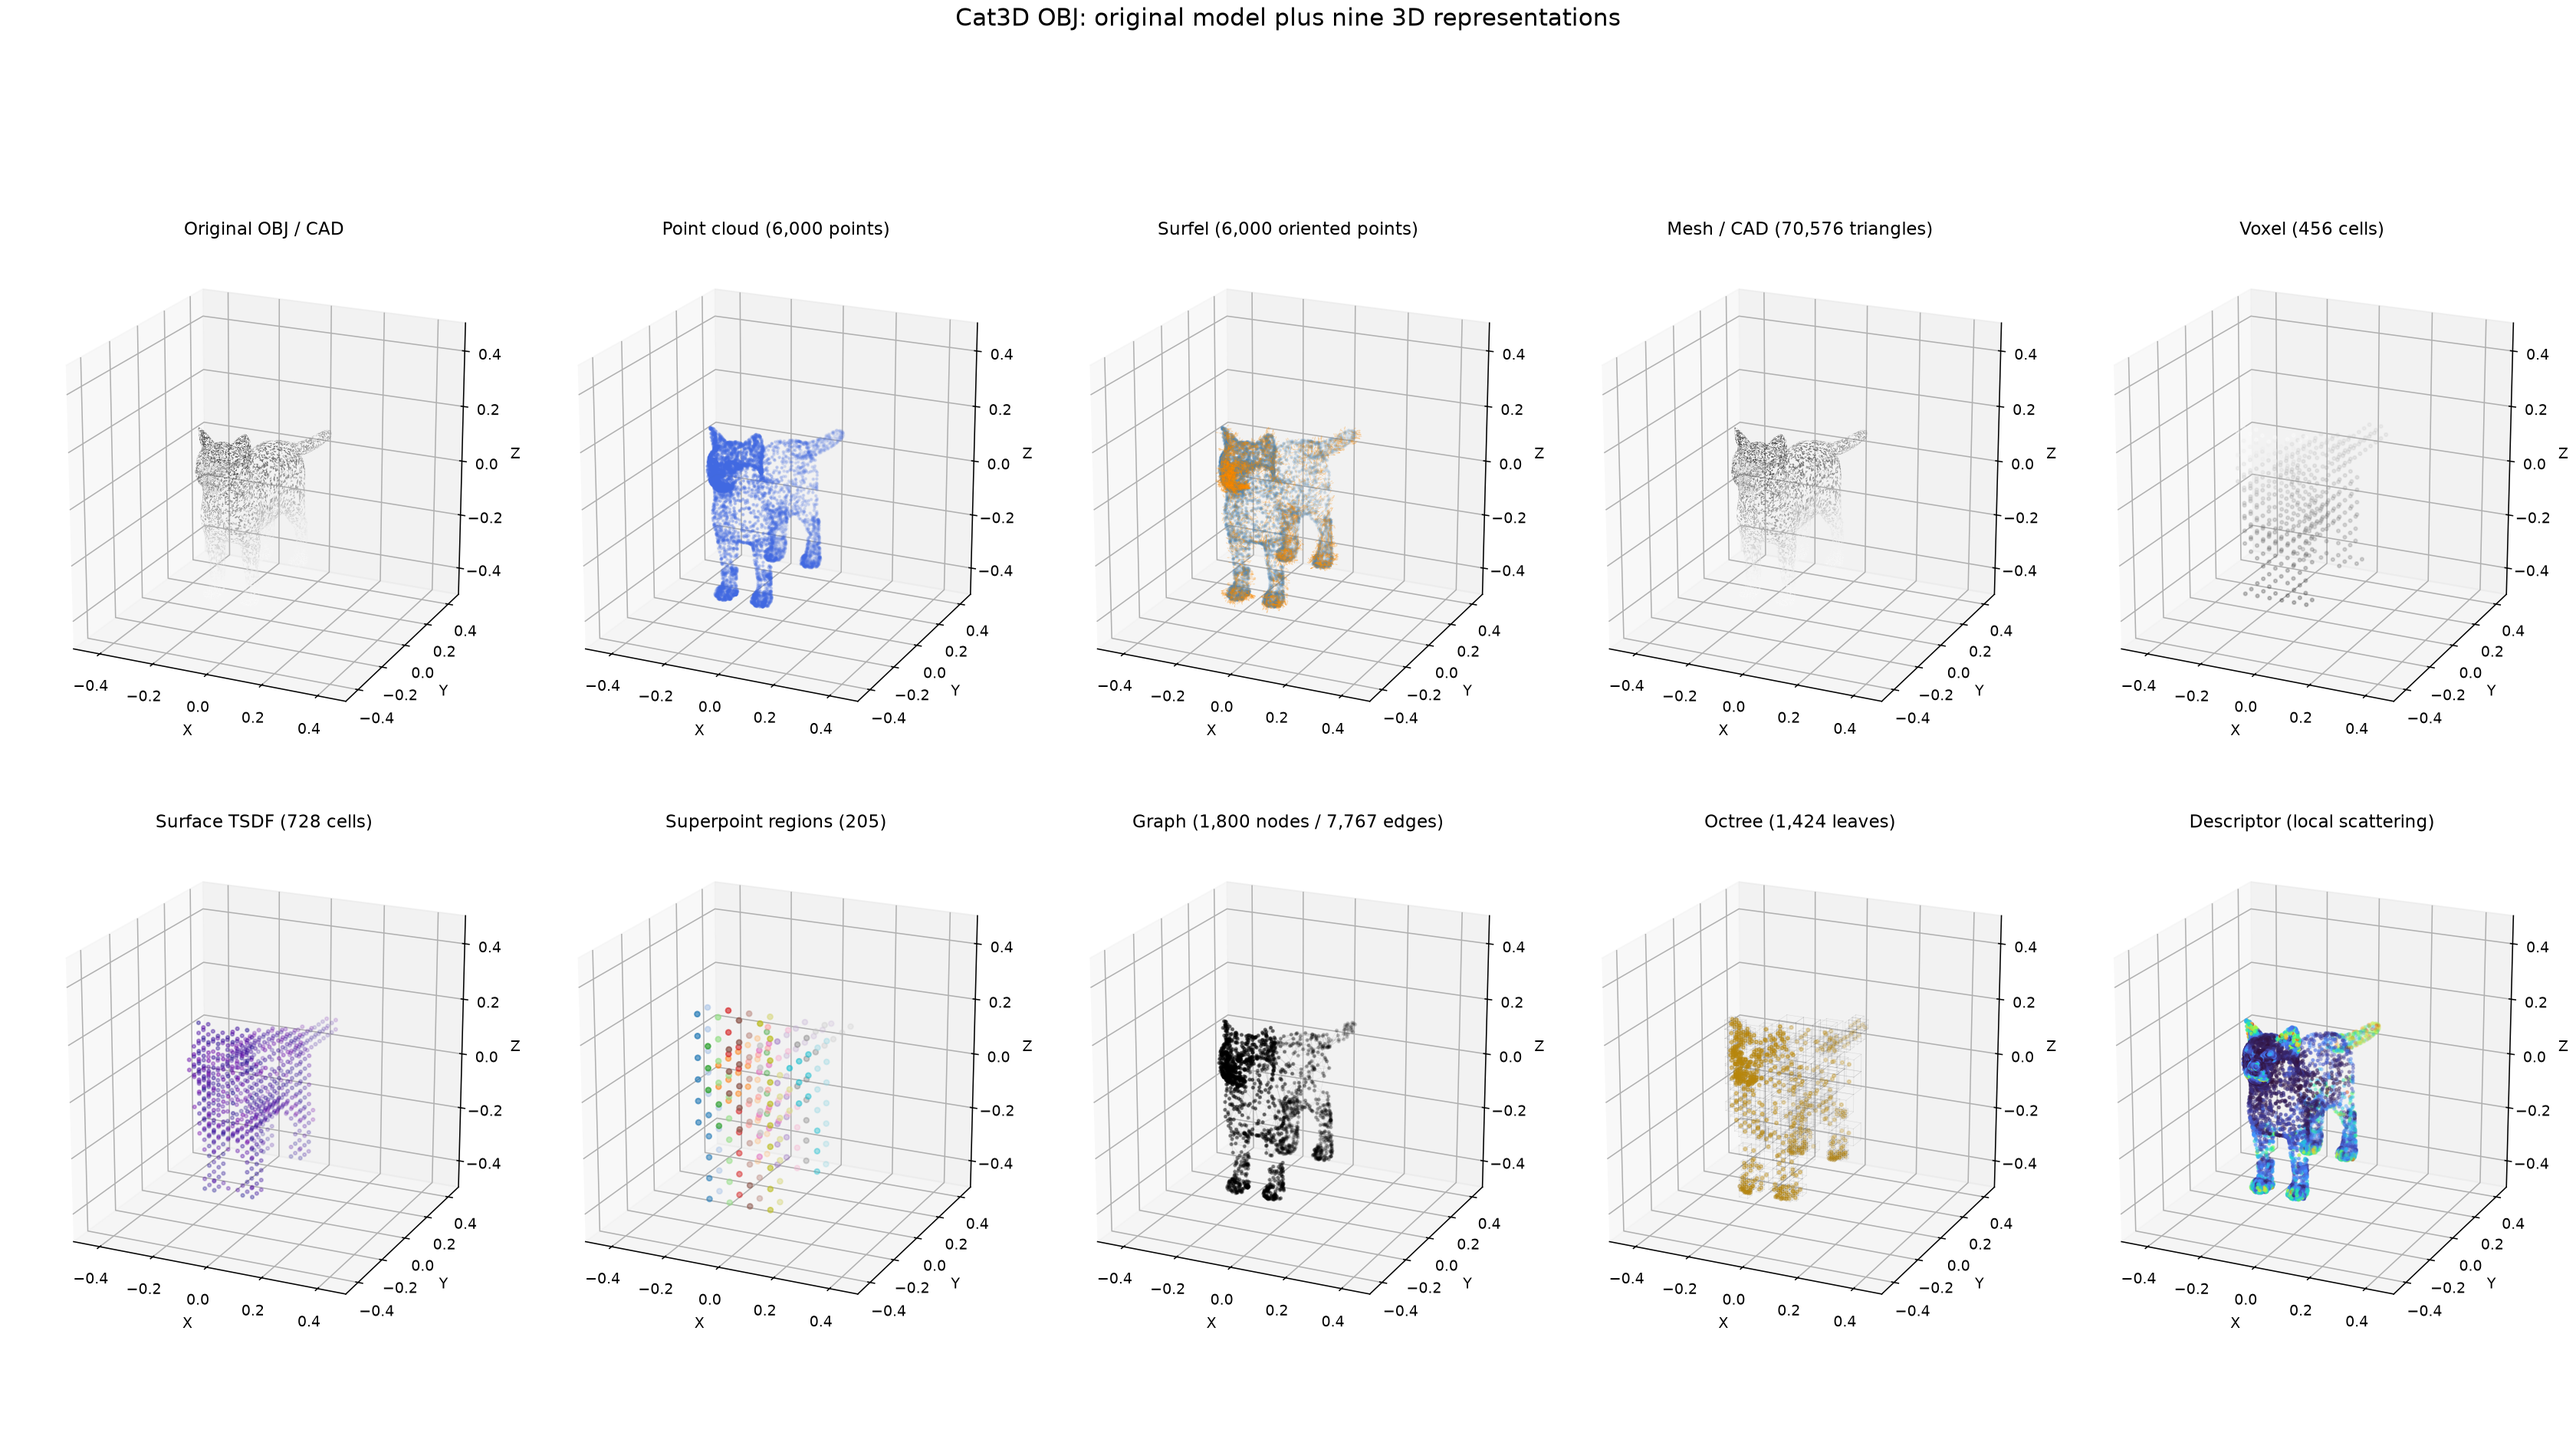
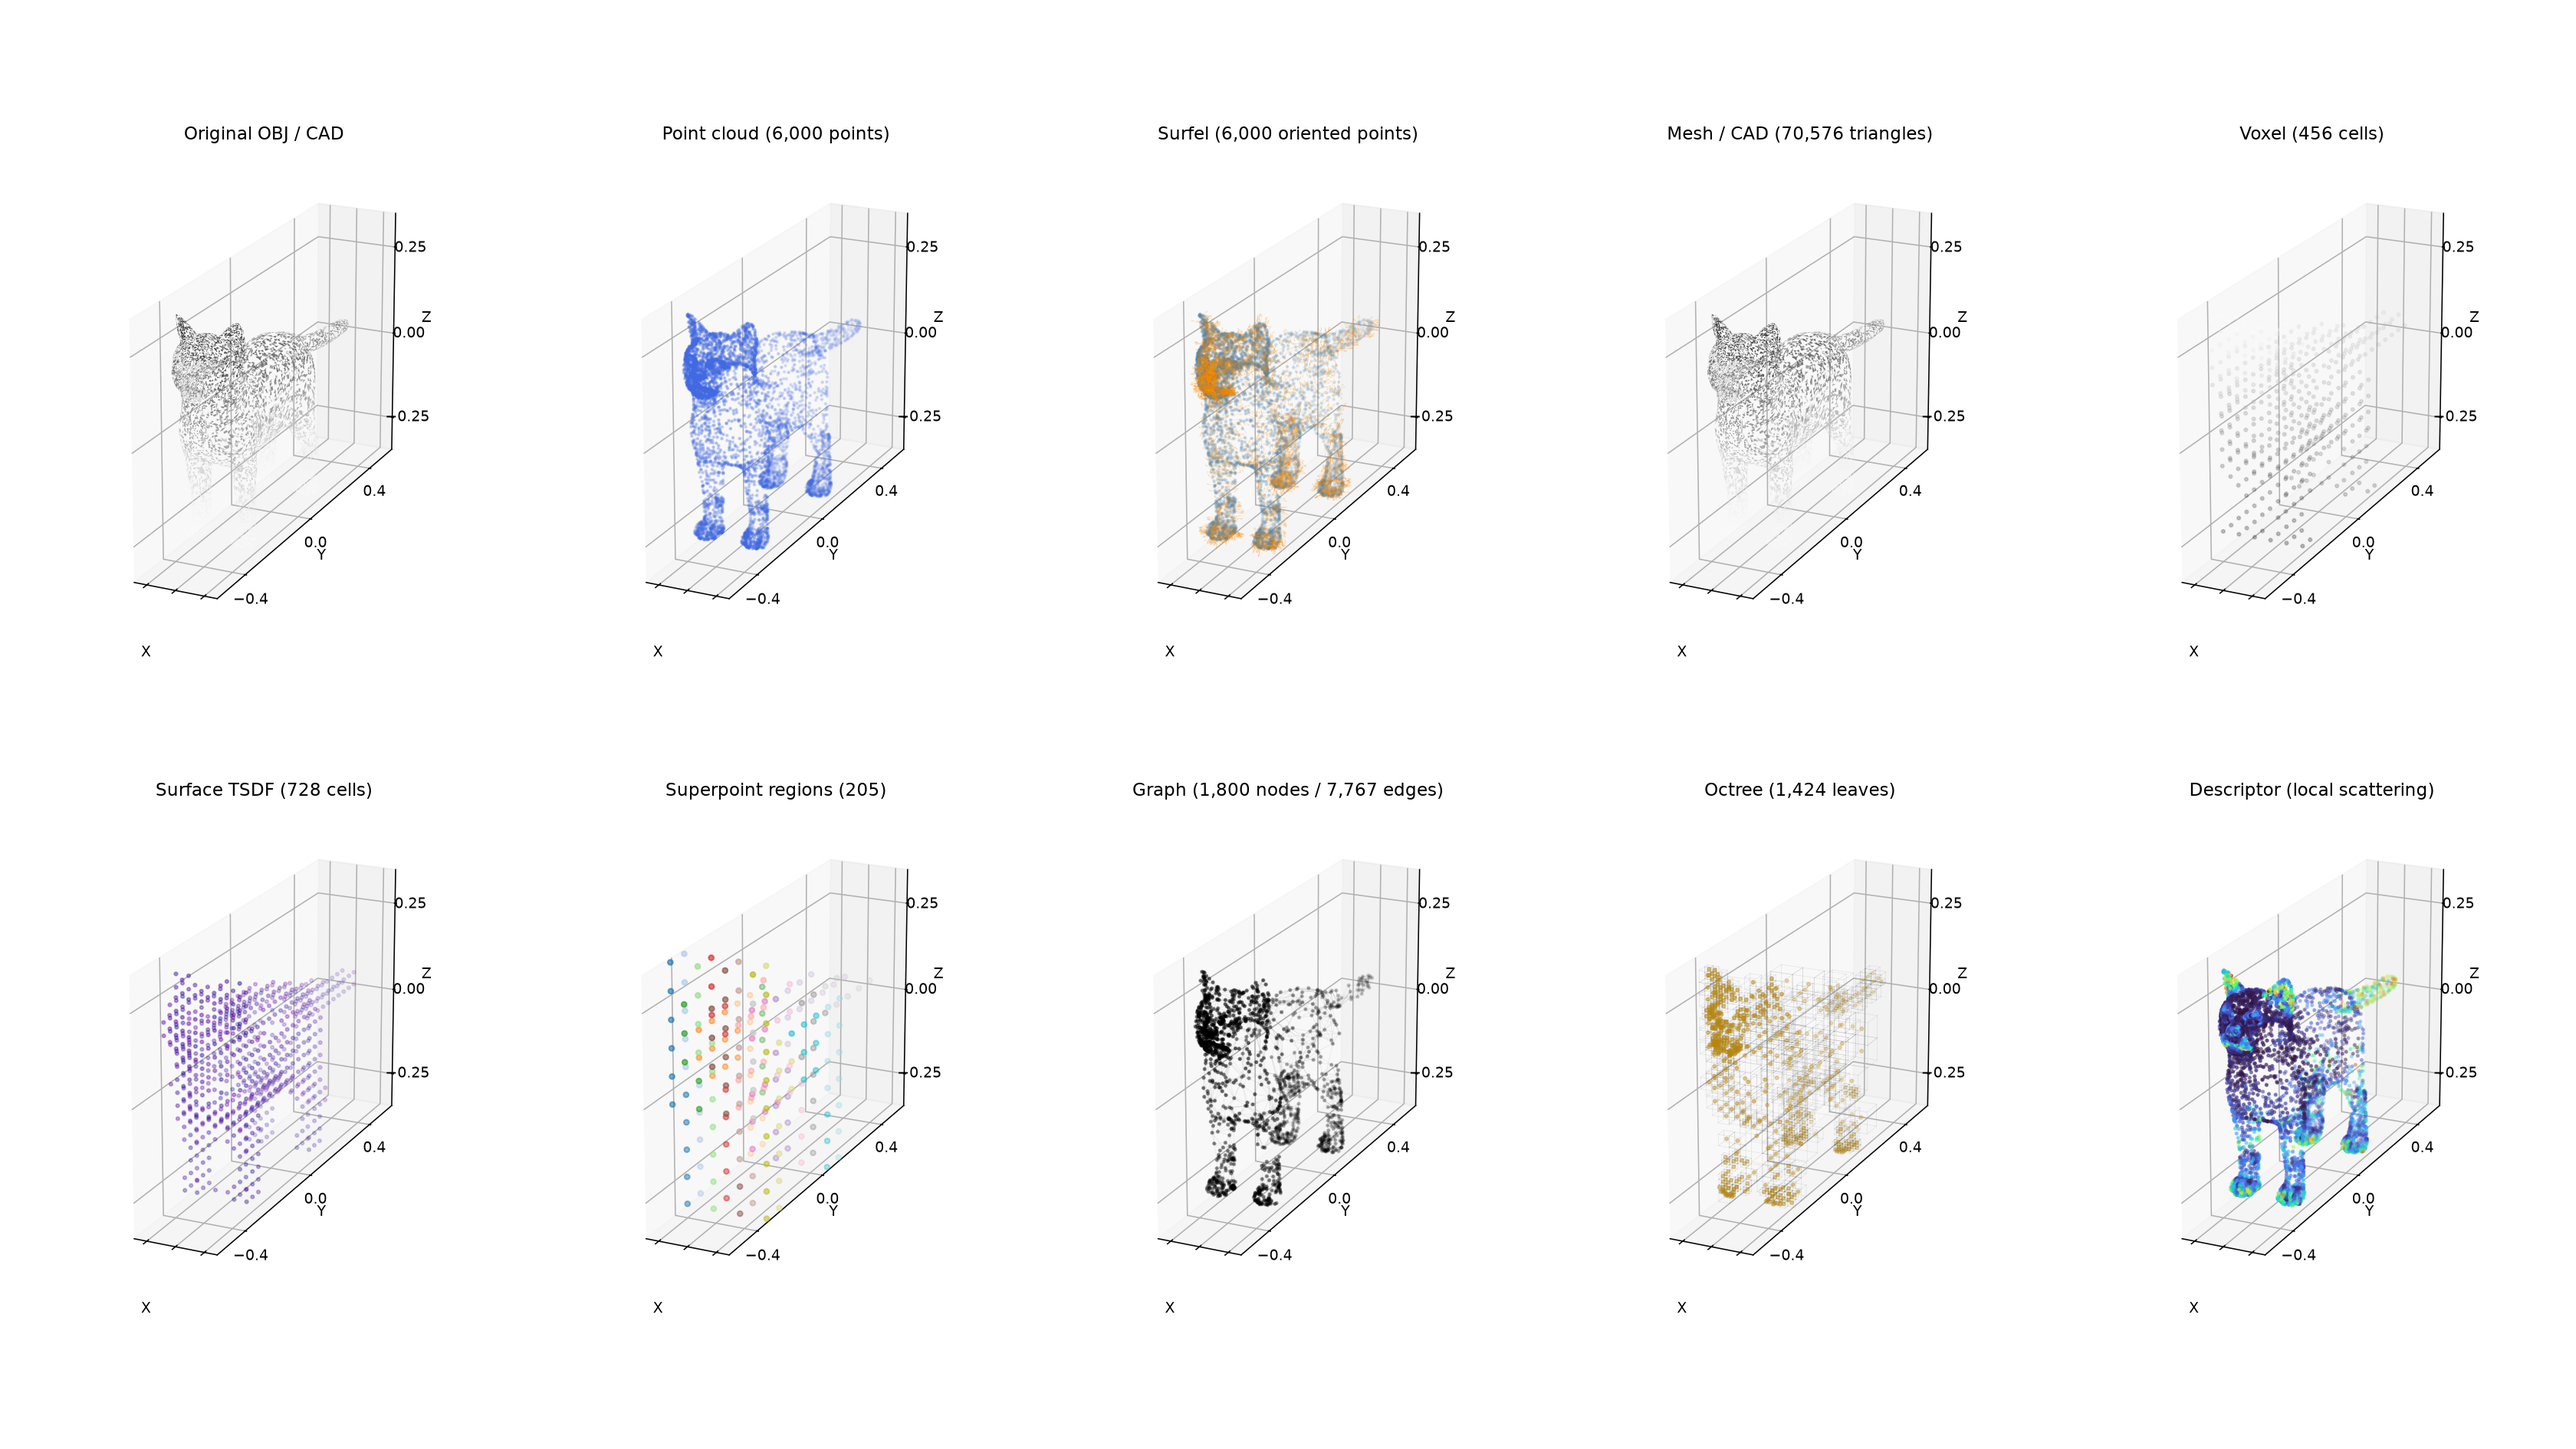
Refine Cat3D representation atlases and documentation

diff --git a/repstudy/plot_catdog_grids.py b/repstudy/plot_catdog_grids.py
@@ -1,4 +1,4 @@
-"""Create representation grids for the catDog RGB image and its OBJ asset."""
+"""Create 3D and 2D representation atlases for the Cat3D OBJ asset."""
 
 from __future__ import annotations
 
@@ -8,6 +8,7 @@ from pathlib import Path
 import matplotlib.pyplot as plt
 import numpy as np
 from matplotlib.collections import PolyCollection
+from matplotlib.ticker import MaxNLocator
 from PIL import Image
 
 from .obj_utils import (face_centers, face_normals, knn_graph, load_obj,
@@ -20,12 +21,19 @@ def _equal_axes(axis, points):
     if len(points) == 0:
         return
     mins, maxs = points.min(axis=0), points.max(axis=0)
-    center = (mins + maxs) / 2.0
-    radius = max(float((maxs - mins).max()) / 2.0, 1e-3)
-    axis.set_xlim(center[0] - radius, center[0] + radius)
-    axis.set_ylim(center[1] - radius, center[1] + radius)
-    axis.set_zlim(center[2] - radius, center[2] + radius)
-    axis.set_box_aspect((1, 1, 1))
+    # Tight, aspect-preserving limits make the tall, narrow Cat3D mesh fill
+    # each panel instead of leaving large empty cube margins around it.
+    span = np.maximum(maxs - mins, 1e-3)
+    pad = np.maximum(span * 0.06, 1e-3)
+    axis.set_xlim(mins[0] - pad[0], maxs[0] + pad[0])
+    axis.set_ylim(mins[1] - pad[1], maxs[1] + pad[1])
+    axis.set_zlim(mins[2] - pad[2], maxs[2] + pad[2])
+    axis.set_box_aspect(span)
+    for coordinate_axis in (axis.xaxis, axis.yaxis, axis.zaxis):
+        coordinate_axis.set_major_locator(MaxNLocator(nbins=3))
+    # The Cat3D mesh is very narrow in X; hiding only those numeric tick
+    # labels avoids collisions while retaining the X axis and coordinate box.
+    axis.set_xticklabels([])
 
 
 def _clean_3d_axis(axis):
@@ -206,15 +214,63 @@ def make_cat3d_grid(obj_path, output):
     axis.set_title("Original OBJ / CAD")
     axis.set_xlabel("X"); axis.set_ylabel("Y"); axis.set_zlabel("Z")
     axis.view_init(elev=20, azim=-65)
-    axis.set_axis_on(); axis.grid(True); axis.dist = 4.5
+    axis.set_axis_on(); axis.grid(True); axis.dist = 3.2
     for index, name in enumerate(REPRESENTATION_NAMES, 2):
         axis = figure.add_subplot(2, 5, index, projection="3d")
         _draw_representation(axis, name, vertices, faces, asset)
         axis.set_xlabel("X"); axis.set_ylabel("Y"); axis.set_zlabel("Z")
         axis.view_init(elev=20, azim=-65)
-        axis.set_axis_on(); axis.grid(True); axis.dist = 4.5
-    figure.suptitle("Cat3D OBJ: original model plus nine 3D representations", fontsize=16, y=0.995)
-    figure.tight_layout(rect=(0, 0, 1, 0.94), h_pad=2.4)
+        axis.set_axis_on(); axis.grid(True); axis.dist = 3.2
+    # Deliberately no figure-level header: the panel labels carry the meaning.
+    figure.tight_layout(rect=(0, 0, 1, 1), h_pad=2.4)
+    output = Path(output); output.parent.mkdir(parents=True, exist_ok=True)
+    figure.savefig(output, dpi=140); plt.close(figure)
+    return output
+
+
+def make_cat3d_2d_grid(obj_path, output):
+    """Render the original OBJ and all nine representations in image space."""
+    mesh = load_obj(obj_path)
+    vertices, faces = normalize_vertices(mesh.vertices), mesh.faces
+    asset = _build_asset(vertices, faces)
+    figure, axes = plt.subplots(2, 5, figsize=(24, 11), squeeze=False)
+
+    _projected_mesh(axes[0, 0], vertices, faces, "front", "Original OBJ / CAD")
+    points = asset["points"]
+    front, depth = _project(points, "front")
+    projected_voxel, _ = _project(asset["voxel_centers"], "front")
+    projected_tsdf, _ = _project(asset["tsdf_centers"], "front")
+    projected_super, _ = _project(asset["superpoint_centers"], "front")
+    projected_graph, _ = _project(asset["graph_points"], "front")
+    projected_octree, _ = _project(asset["octree"]["centers"], "front")
+
+    axes[0, 1].scatter(front[:, 0], front[:, 1], s=2, c="royalblue", alpha=0.62)
+    axes[0, 1].set_title("Point cloud"); axes[0, 1].axis("off"); axes[0, 1].set_aspect("equal")
+    axes[0, 2].scatter(front[:, 0], front[:, 1], s=2, c=asset["point_normals"][:, 2], cmap="cividis", alpha=0.65)
+    axes[0, 2].set_title("Surfel projection"); axes[0, 2].axis("off"); axes[0, 2].set_aspect("equal")
+    _projected_mesh(axes[0, 3], vertices, faces, "front", "Mesh projection")
+    axes[0, 4].scatter(projected_voxel[:, 0], projected_voxel[:, 1], s=7,
+                       c=asset["voxel_centers"][:, 2], cmap="gray", alpha=0.75)
+    axes[0, 4].set_title("Voxel projection"); axes[0, 4].axis("off"); axes[0, 4].set_aspect("equal")
+
+    axes[1, 0].scatter(projected_tsdf[:, 0], projected_tsdf[:, 1], s=7,
+                       c=asset["tsdf_values"], cmap="plasma", alpha=0.75)
+    axes[1, 0].set_title("Surface TSDF projection"); axes[1, 0].axis("off"); axes[1, 0].set_aspect("equal")
+    axes[1, 1].scatter(projected_super[:, 0], projected_super[:, 1], s=14,
+                       c=np.arange(len(projected_super)), cmap="tab20", alpha=0.85)
+    axes[1, 1].set_title("Superpoint projection"); axes[1, 1].axis("off"); axes[1, 1].set_aspect("equal")
+    axes[1, 2].scatter(projected_graph[:, 0], projected_graph[:, 1], s=3, c="black", alpha=0.75)
+    for source, target in asset["graph_edges"][sample_indices(len(asset["graph_edges"]), min(len(asset["graph_edges"]), 5000), seed=4)]:
+        segment = projected_graph[[source, target]]
+        axes[1, 2].plot(segment[:, 0], segment[:, 1], color="0.35", linewidth=0.22, alpha=0.18)
+    axes[1, 2].set_title("Graph projection"); axes[1, 2].axis("off"); axes[1, 2].set_aspect("equal")
+    axes[1, 3].scatter(projected_octree[:, 0], projected_octree[:, 1], s=5,
+                       c=asset["octree"]["levels"], cmap="YlOrBr", alpha=0.75)
+    axes[1, 3].set_title("Octree projection"); axes[1, 3].axis("off"); axes[1, 3].set_aspect("equal")
+    axes[1, 4].scatter(front[:, 0], front[:, 1], s=3,
+                       c=asset["descriptors"][:, 5], cmap="turbo", alpha=0.8)
+    axes[1, 4].set_title("Descriptor projection"); axes[1, 4].axis("off"); axes[1, 4].set_aspect("equal")
+    figure.tight_layout(h_pad=2.4)
     output = Path(output); output.parent.mkdir(parents=True, exist_ok=True)
     figure.savefig(output, dpi=140); plt.close(figure)
     return output
@@ -276,12 +332,10 @@ def make_2d_grid(image_path, obj_path, output):
 
 
 def main():
-    parser = argparse.ArgumentParser(description="Render catDog RGB and Cat OBJ representation grids")
-    parser.add_argument("--image", default="data/catDog.png")
+    parser = argparse.ArgumentParser(description="Render Cat3D OBJ representation grids")
     parser.add_argument("--obj", default=None, help="OBJ path; defaults to the first OBJ under data/")
     parser.add_argument("--output-root", default="outputs/cat3d")
     args = parser.parse_args()
-    image_path = Path(args.image)
     if args.obj:
         obj_path = Path(args.obj)
     else:
@@ -291,6 +345,7 @@ def main():
         obj_path = candidates[0]
     root = Path(args.output_root)
     print(make_cat3d_grid(obj_path, root / "cat3d_original_plus_9_grid.png"))
+    print(make_cat3d_2d_grid(obj_path, root / "cat3d_2d_representation_grid.png"))
     print(f"OBJ: {obj_path}")
 
 

diff --git a/README.md b/README.md
@@ -22,7 +22,7 @@ the 3D grids show the raw geometric structures.
 | --- | --- | --- |
 | NYUv2 | <img src="docs/figures/nyuv2_2d_representation_grid.png" alt="NYUv2 2D representation grid" width="420"> | <img src="docs/figures/nyuv2_3d_representation_grid.png" alt="NYUv2 3D representation grid" width="420"> |
 | SUN RGB-D | <img src="docs/figures/sunrgbd_2d_representation_grid.png" alt="SUN RGB-D 2D representation grid" width="420"> | <img src="docs/figures/sunrgbd_3d_representation_grid.png" alt="SUN RGB-D 3D representation grid" width="420"> |
-| Cat3D OBJ | - | <img src="docs/figures/cat3d_original_plus_9_grid.png" alt="Cat3D original model plus nine representations" width="420"> |
+| Cat3D OBJ | <img src="docs/figures/cat3d_2d_representation_grid.png" alt="Cat3D 2D representation grid" width="420"> | <img src="docs/figures/cat3d_original_plus_9_grid.png" alt="Cat3D original model plus nine representations" width="420"> |
 
 The Cat3D figure contains the original OBJ/CAD model plus nine derived 3D
 representations. The separate `catDog.png` RGB scene is intentionally not
@@ -114,6 +114,7 @@ surface TSDF, superpoint regions, graph, octree, and descriptor.
 
 ```text
 outputs/cat3d/cat3d_original_plus_9_grid.png
+outputs/cat3d/cat3d_2d_representation_grid.png
 outputs/cat3d/cat3d_projection_analysis.png
 outputs/cat3d/cat3d_statistics.png
 ```
